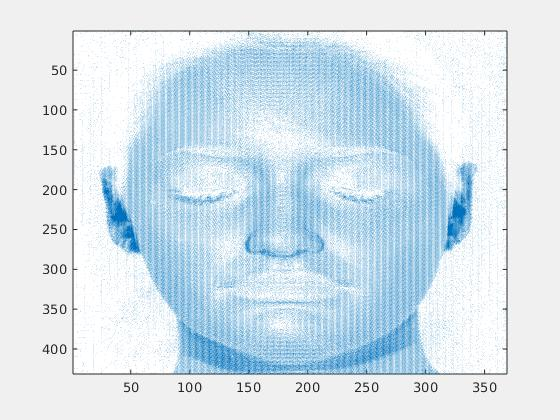
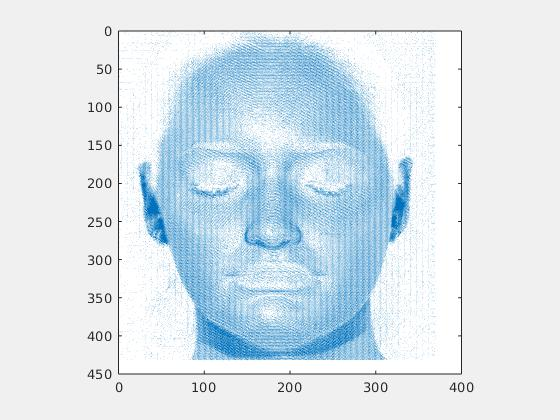
assign4: regenerated Q1.4 quiver with axis square

diff --git a/assgn4/matlab/q1_4.m b/assgn4/matlab/q1_4.m
@@ -15,7 +15,7 @@ N = (S\I')';
 N = reshape(N, h, w, 3);
 
 figure; 
-quiver(N(:,:,1), N(:,:,2)); set(gca, 'YDir','reverse'); axis tight; 
+quiver(N(:,:,1), N(:,:,2)); set(gca, 'YDir','reverse'); axis square; 
 imwrite(getframe(gcf).cdata, '../results/q1_4_quiver.jpg');
 
 albedo = vecnorm(N, 2, 3);
